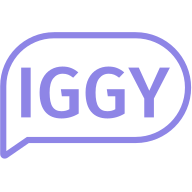
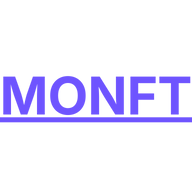
colors and images updated

Changed region(s): [[0.0, 0.1562, 1.0, 0.8438]]

diff --git a/public/css/custom.css b/public/css/custom.css
@@ -2,12 +2,12 @@
 @import "./light.css";
 
 :root {
-  --bs-primary: #8e85e6 !important; /* TODO: Replace is with your primary color */
+  --bs-primary: #6E54FF !important; /* TODO: Replace is with your primary color */
   --bs-primary-rgb: 142, 133, 230; /* TODO: This should be an RGB version of --bs-primary hex color */
-  --bs-btn-disabled-border-color: #8e85e6; /* TODO: Replace is with your primary color */
-  --bs-link-color: #8e85e6; /* TODO: Replace is with your primary color */
-  --bs-nav-pills-link-active-bg: #8e85e6 !important; /* TODO: Replace is with your primary color */
-  --bs-link-color: #8e85e6; /* TODO: Replace is with your primary color */
+  --bs-btn-disabled-border-color: #6E54FF; /* TODO: Replace is with your primary color */
+  --bs-link-color: #6E54FF; /* TODO: Replace is with your primary color */
+  --bs-nav-pills-link-active-bg: #6E54FF !important; /* TODO: Replace is with your primary color */
+  --bs-link-color: #6E54FF; /* TODO: Replace is with your primary color */
   --bs-link-hover-color: #6f42c1; /* TODO: A slightly darker shade of the primary color */
   --bs-blue: #1d3b53;
   --bs-indigo: #6610f2;
@@ -367,7 +367,7 @@ a:hover {
 /* @todo Add your custom navbar background color */
 /*
 .navbar-bg-custom {
-  background: linear-gradient(40deg,#ff6ec4,#8e85e6);
+  background: linear-gradient(40deg,#ff6ec4,#6E54FF);
   border-bottom-right-radius: 15px;
   border-bottom-left-radius: 15px;
 }

diff --git a/nuxt.config.ts b/nuxt.config.ts
@@ -91,8 +91,8 @@ export default defineNuxtConfig({
       expiryUsernames: 1000 * 60 * 60 * 24 * 7, // must be in milliseconds (0 means no expiration)
       farcasterShareText: 'Check out Iggy Social - A starter template for building Web3 applications with Wagmi and Nuxt!',
       farcasterSplashImageUrl: 'https://gae.iggy.social/img/farcaster/fc-icon.png',
-      farcasterSplashBackgroundColor: '#8e85e6',
-      favicon: '/img/favicon.ico',
+      farcasterSplashBackgroundColor: '#6E54FF',
+      favicon: '/img/favicon.svg',
       fileUploadEnabled: true, // enable/disable file uploads (enable only if external file storage is used, e.g. Arweave)
       fileUploadSizeLimit: 1 * 1024 * 1024, // max file upload size in bytes (1 * 1024 * 1024 = 1 MB)
       fileUploadStorageType: "arweave", // "arweave" (or leave empty for no file uploads)
@@ -119,7 +119,6 @@ export default defineNuxtConfig({
       previewImageNftCreate: '/img/covers/cover-nft-create.png',
       previewImageNftLaunchpad: '/img/covers/cover-nft-launchpad.png',
       previewImagePost: '/img/covers/cover-post.png',
-      previewImagePostNft: '/img/covers/cover-post-nft.png',
       previewImageProfile: '/img/covers/cover-profile.png',
       previewImageStake: '/img/covers/cover-stake.png',
       projectMetadataTitle: 'Iggy Social',

diff --git a/server/api/endpoint/read/link-previews.ts b/server/api/endpoint/read/link-previews.ts
@@ -99,7 +99,7 @@ export default defineEventHandler(async (event) => {
           metadata.image.url = imageMatches[0].trim()
         } else {
           const titleWithoutSpaces = metadata.title?.replace(/\s+/g, '+')
-          metadata.image.url = "https://placehold.co/600x400/8e85e6/FFF?text=" + titleWithoutSpaces
+          metadata.image.url = "https://placehold.co/600x400/6E54FF/FFF?text=" + titleWithoutSpaces
         }
       }
     } catch (fetchError: any) {
